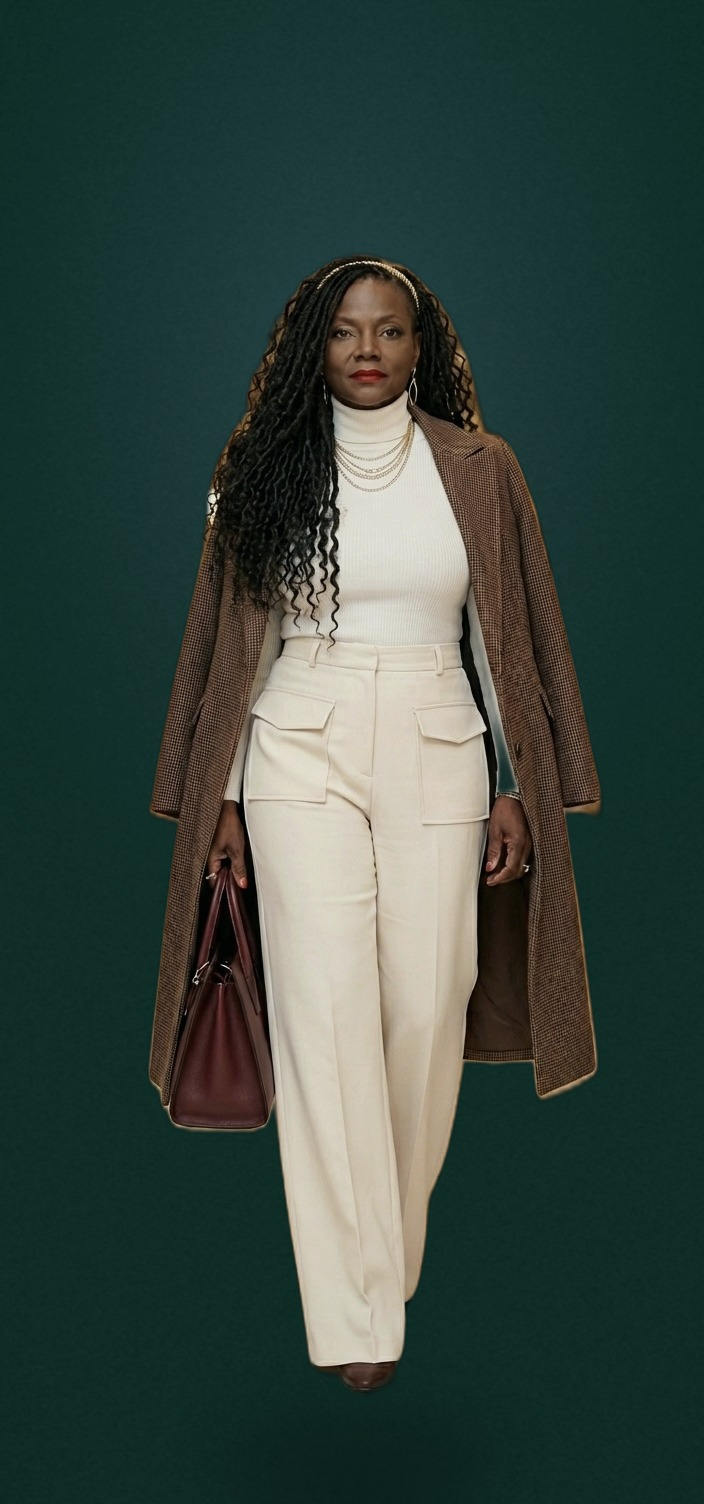
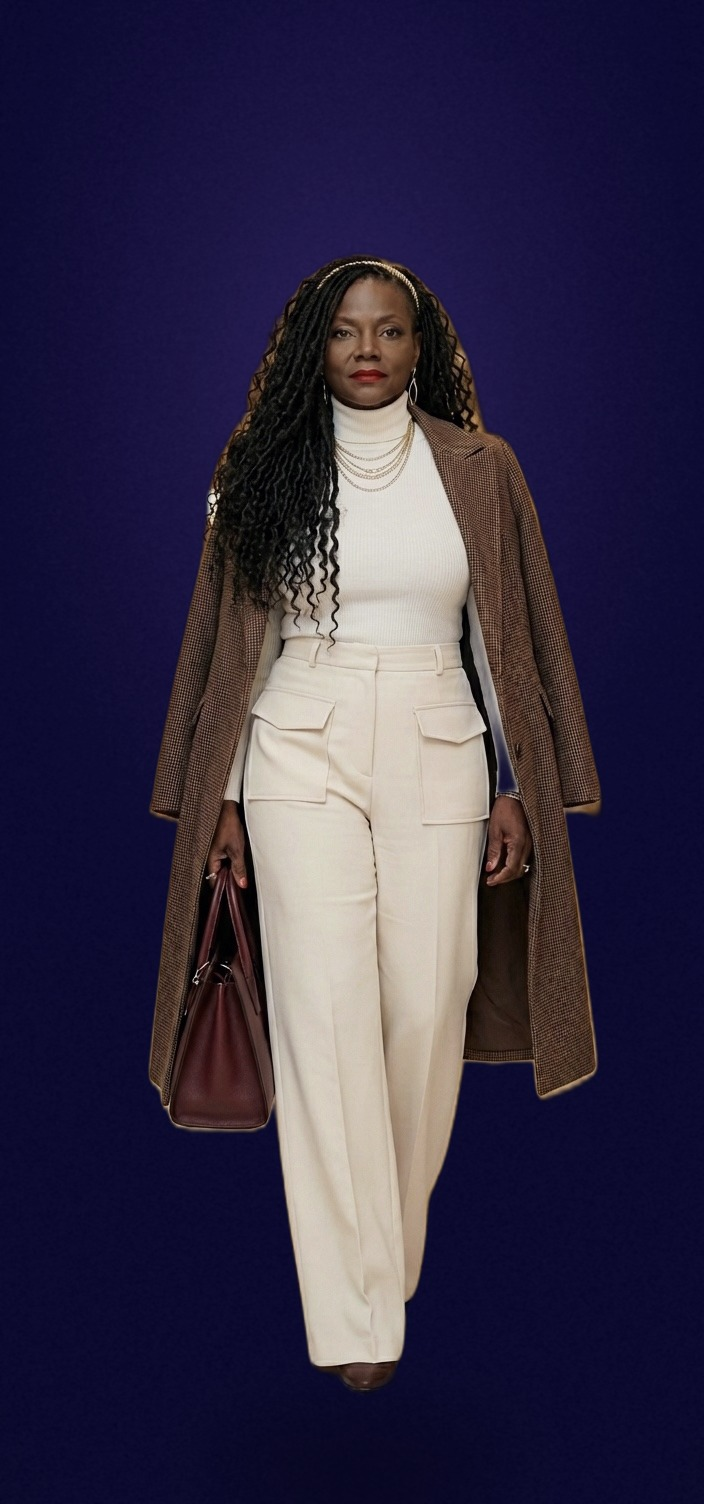
Switch brand palette to indigo/violet/magenta
Replace the ink/teal/mauve/pink/blush hex values with the new palette
(#0d0b33, #4c2f6f, #52489f, #c266a7, #e7c8e7), keeping the same token
names and lightness ordering so every component that consumes them
picks up the change automatically. Also regenerate the hero photo's
composited backdrop with the new colors so it still sits flush against
the section background instead of clashing with the old green/teal.

diff --git a/src/app/globals.css b/src/app/globals.css
@@ -2,20 +2,20 @@
 
 :root {
   /* Brand palette */
-  --ink: #11302a;
-  --teal: #036264;
-  --mauve: #8f5774;
-  --pink: #e0829d;
-  --blush: #dac4d0;
+  --ink: #0d0b33;
+  --teal: #4c2f6f;
+  --mauve: #52489f;
+  --pink: #c266a7;
+  --blush: #e7c8e7;
 
-  --background: #f8f2f4;
+  --background: #f8f3fa;
   --foreground: var(--ink);
   --accent: var(--pink);
   --accent-foreground: var(--ink);
-  --muted: #5e6f68;
-  --border: #e5d9de;
+  --muted: #6a6389;
+  --border: #e2d7e8;
   --surface: #ffffff;
-  --on-ink: #f3e9ec;
+  --on-ink: #f4eef9;
 }
 
 @theme inline {
